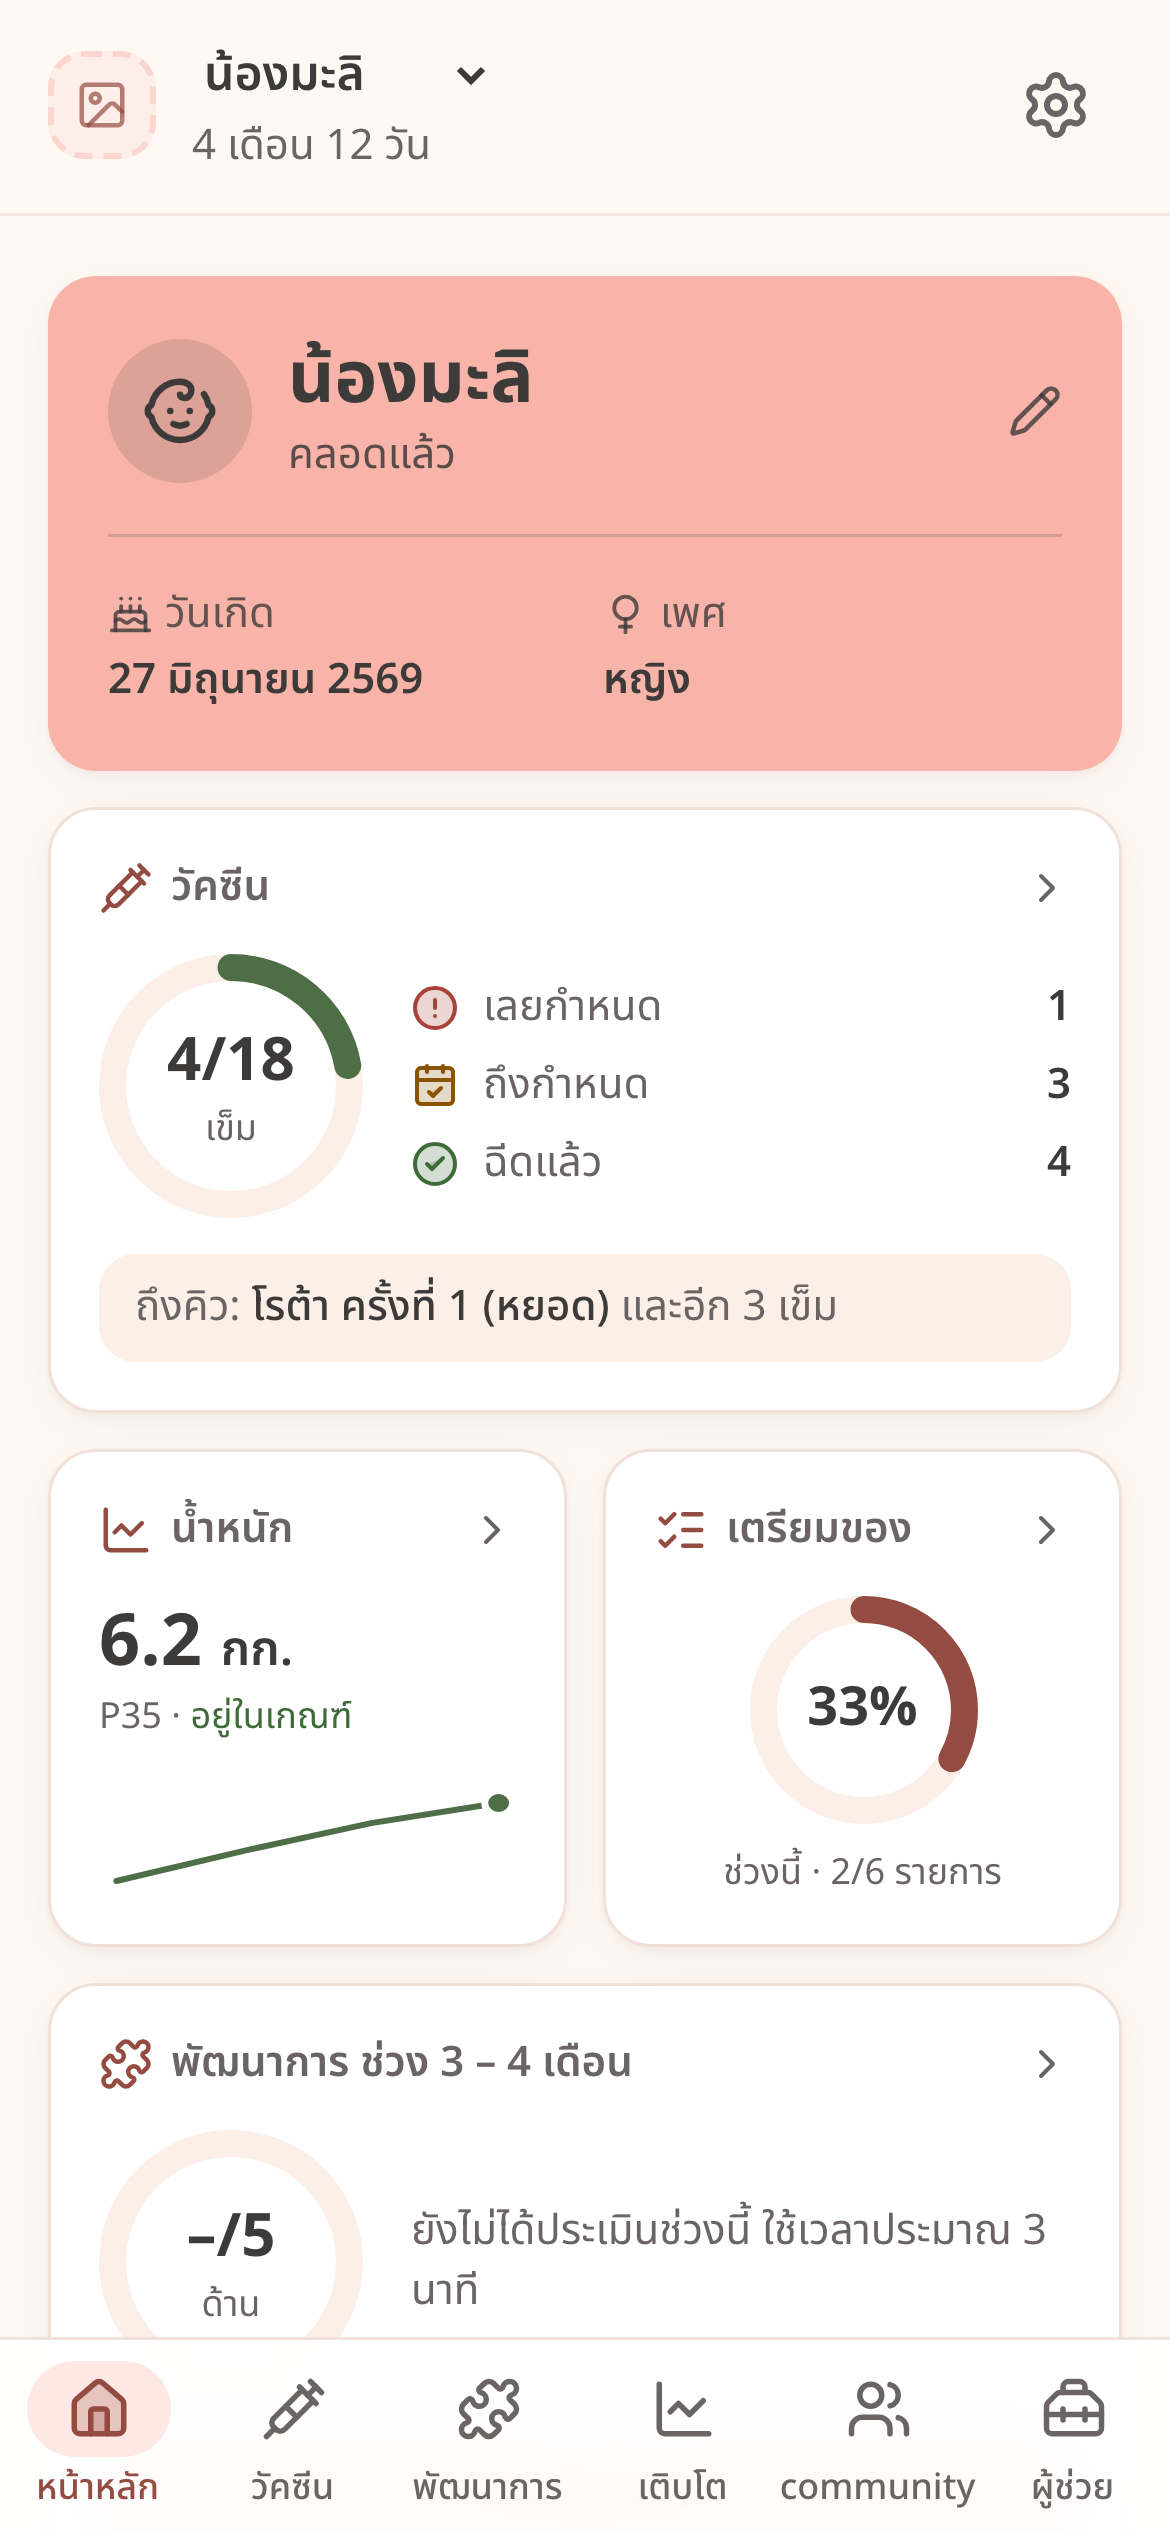
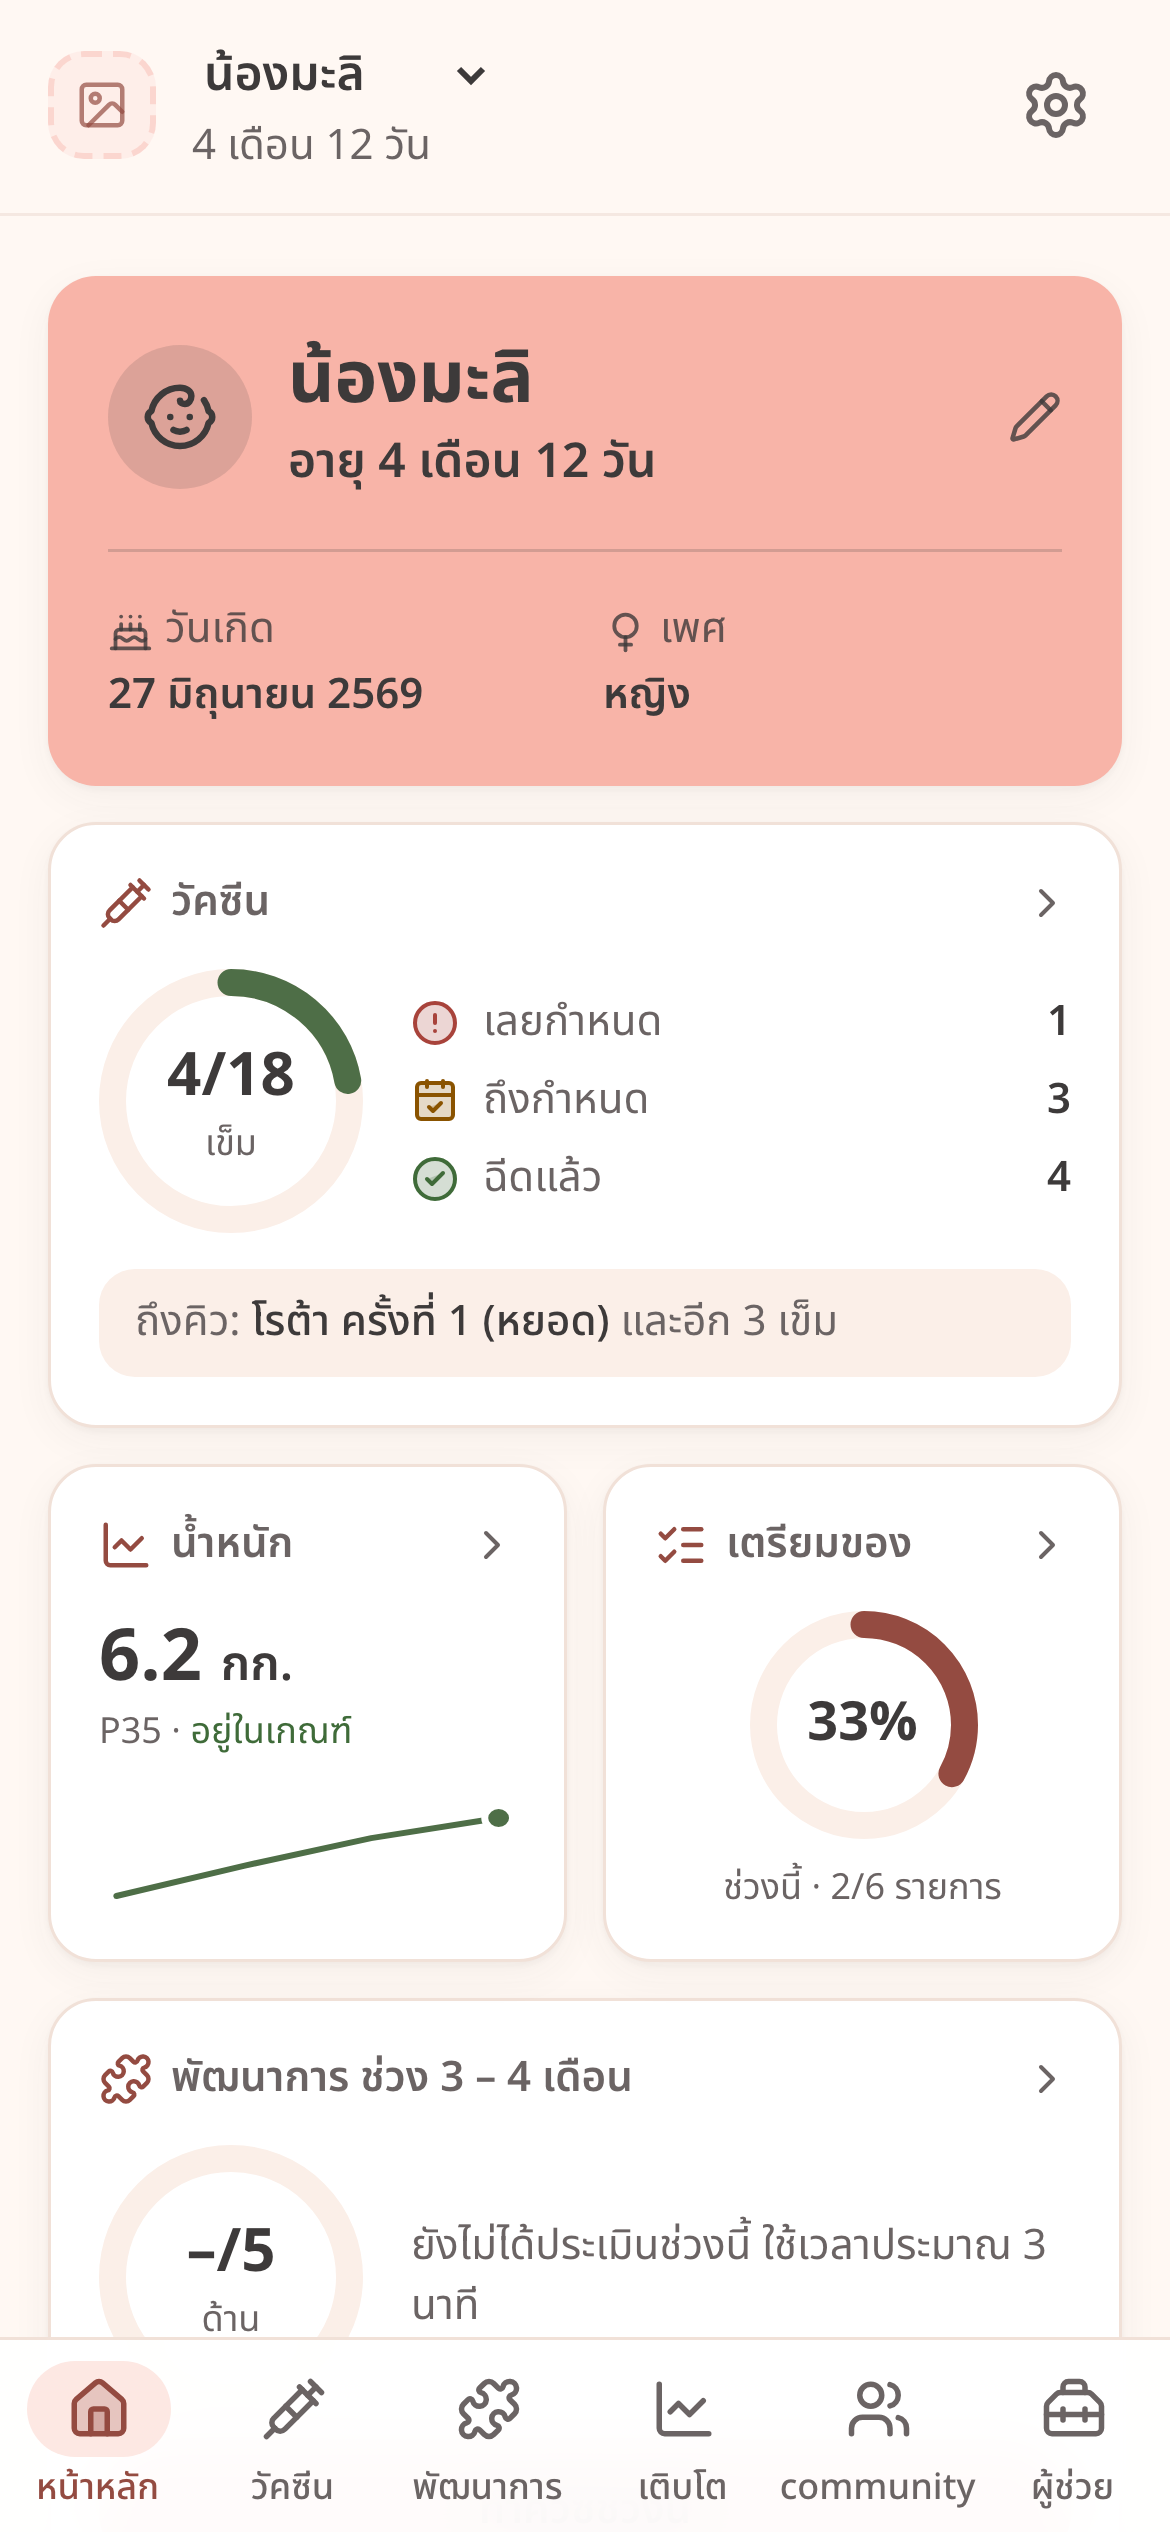
Profile card: show age, or pregnancy week and days until due

diff --git a/src/pages/HomePage.tsx b/src/pages/HomePage.tsx
@@ -15,6 +15,7 @@ import {
   ClockIcon,
   GenderFemaleIcon,
   GenderMaleIcon,
+  HourglassIcon,
   InfoIcon,
   ListChecksIcon,
   PencilSimpleIcon,
@@ -55,7 +56,7 @@ export default function HomePage() {
     <div className="space-y-3">
       <h1 className="sr-only">หน้าหลัก</h1>
       <StatusNotice status={status} />
-      <ProfileCard child={activeChild} />
+      <ProfileCard child={activeChild} status={status} />
       {status.mode === 'born' ? (
         <>
           <VaccineTile child={activeChild} today={today} />
@@ -105,8 +106,8 @@ function StatusNotice({ status }: { status: ChildStatus }) {
   )
 }
 
-/** ข้อมูลส่วนตัวของลูก (อายุแสดงที่แถบหัวแล้ว ไม่ซ้ำตรงนี้) — แตะเพื่อแก้ไขในหน้าตั้งค่า */
-function ProfileCard({ child }: { child: Child }) {
+/** ข้อมูลส่วนตัวของลูก + อายุ (หรืออายุครรภ์) — แตะเพื่อแก้ไขในหน้าตั้งค่า */
+function ProfileCard({ child, status }: { child: Child; status: ChildStatus }) {
   const born = child.mode === 'born'
   const date = born ? child.birthDate : child.dueDate
   const SexIcon = child.sex === 'girl' ? GenderFemaleIcon : child.sex === 'boy' ? GenderMaleIcon : QuestionIcon
@@ -122,7 +123,11 @@ function ProfileCard({ child }: { child: Child }) {
         </span>
         <div className="min-w-0 flex-1">
           <p className="truncate text-2xl font-bold leading-tight">{child.name}</p>
-          <p className="text-sm text-on-primary/85">{born ? 'คลอดแล้ว' : 'กำลังตั้งครรภ์'}</p>
+          <p className="font-semibold">
+            {status.mode === 'born'
+              ? `อายุ ${status.label}`
+              : `อายุครรภ์ ${status.pregnancy.weeks} สัปดาห์${status.pregnancy.days > 0 ? ` ${status.pregnancy.days} วัน` : ''}`}
+          </p>
         </div>
         <PencilSimpleIcon size={18} className="shrink-0 text-on-primary/80" aria-hidden="true" />
       </div>
@@ -137,6 +142,17 @@ function ProfileCard({ child }: { child: Child }) {
             {born && child.birthTime && <span className="block font-normal">เวลา {child.birthTime} น.</span>}
           </dd>
         </div>
+        {status.mode === 'pregnant' && (
+          <div>
+            <dt className="flex items-center gap-1 text-on-primary/80">
+              <HourglassIcon size={15} aria-hidden="true" />
+              {status.pregnancy.daysUntilDue >= 0 ? 'เหลืออีก' : 'เลยกำหนด'}
+            </dt>
+            <dd className="mt-0.5 font-semibold">
+              {status.pregnancy.daysUntilDue === 0 ? 'ครบกำหนดวันนี้' : `${Math.abs(status.pregnancy.daysUntilDue)} วัน`}
+            </dd>
+          </div>
+        )}
         <div>
           <dt className="flex items-center gap-1 text-on-primary/80">
             <SexIcon size={15} aria-hidden="true" />
